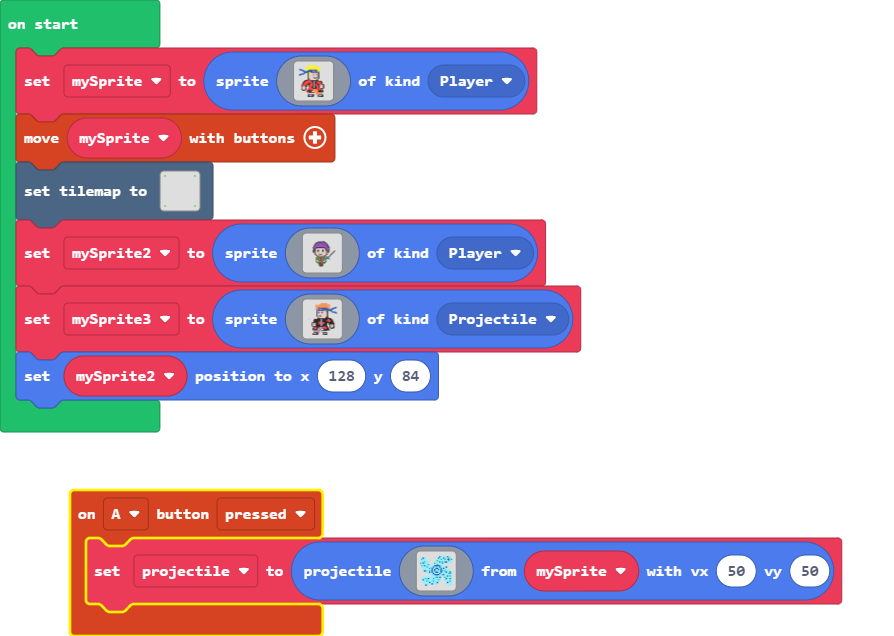
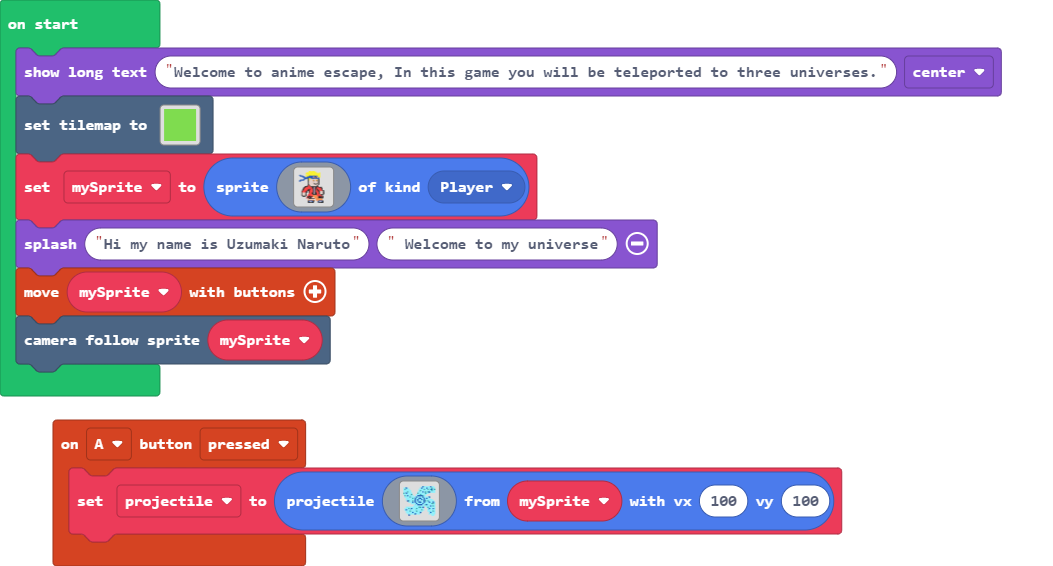
Update pxt.json, main.blocks, main.ts, images.g.jres, images.g.ts, tilemap.g.jres, tilemap.g.ts

diff --git a/tilemap.g.ts b/tilemap.g.ts
@@ -24,6 +24,44 @@ namespace myTiles {
 . . . . . . . . . . . . . . . . 
 . . . . . . . . . . . . . . . . 
 `, [myTiles.transparency16,sprites.castle.tileGrass2], TileScale.Sixteen);
+            case "level2":
+            case "level2":return tiles.createTilemap(hex`1000100001010101010101010101010101010101010101010101010101010101010101010101010101010101010101010101010101010101010101010101010101010101010101010101010101010101010101010101010101010101010101010101010101010101010101010101010101010101010101010101010101010101010101010101010101010101010101010101010101010101010101010101010101010101010101010101010101010101010101010101010101010101010101010101010101010101010101010101010101010101010101010101010101010101010101010101010101010101010101010101010101010101010101010101010101010101`, img`
+. . . . . . . . . . . . . . . . 
+. . . . . . . . . . . . . . . . 
+. . . . . . . . . . . . . . . . 
+. . . . . . . . . . . . . . . . 
+. . . . . . . . . . . . . . . . 
+. . . . . . . . . . . . . . . . 
+. . . . . . . . . . . . . . . . 
+. . . . . . . . . . . . . . . . 
+. . . . . . . . . . . . . . . . 
+. . . . . . . . . . . . . . . . 
+. . . . . . . . . . . . . . . . 
+. . . . . . . . . . . . . . . . 
+. . . . . . . . . . . . . . . . 
+. . . . . . . . . . . . . . . . 
+. . . . . . . . . . . . . . . . 
+. . . . . . . . . . . . . . . . 
+`, [myTiles.transparency16,sprites.castle.tileGrass1], TileScale.Sixteen);
+            case "level3":
+            case "level3":return tiles.createTilemap(hex`1000100000000000000000000000000000000000000000000000000000000000000000000000000000000000000000000000000000000000000000000000000000000000000000000000000000000000000000000000000000000000000000000000000000000000000000000000000000000000000000000000000000000000000000000000000000000000000000000000000000000000000000000000000000000000000000000000000000000000000000000000000000000000000000000000000000000000000000000000000000000000000000000000000000000000000000000000000000000000000000000000000000000000000000000000000000000000`, img`
+. . . . . . . . . . . . . . . . 
+. . . . . . . . . . . . . . . . 
+. . . . . . . . . . . . . . . . 
+. . . . . . . . . . . . . . . . 
+. . . . . . . . . . . . . . . . 
+. . . . . . . . . . . . . . . . 
+. . . . . . . . . . . . . . . . 
+. . . . . . . . . . . . . . . . 
+. . . . . . . . . . . . . . . . 
+. . . . . . . . . . . . . . . . 
+. . . . . . . . . . . . . . . . 
+. . . . . . . . . . . . . . . . 
+. . . . . . . . . . . . . . . . 
+. . . . . . . . . . . . . . . . 
+. . . . . . . . . . . . . . . . 
+. . . . . . . . . . . . . . . . 
+`, [myTiles.transparency16], TileScale.Sixteen);
         }
         return null;
     })

diff --git a/images.g.ts b/images.g.ts
@@ -170,6 +170,34 @@ namespace myImages {
 ........fddddff......fdddf..............
 ........ffffff.......fffff..............
 `;
+            case "_P*{r%-CaF(tZ7L9J06{":
+            case "rasen shuriken":return img`
+.........................
+..............9899999899.
+9989.........989998999699
+96999.......9999699696896
+999999......9699999999699
+999699.....99998969689999
+6989999....699999699.....
+9999996...99969999.......
+.6989999..9888869........
+.99996999989999899998....
+..9999969899889989899....
+..999999989899898999999..
+...869969898999986969999.
+....999898998899899989989
+......9999899998999999669
+.........9988889968999999
+........99999999.99998969
+..99999999996698..9699999
+.999698999699999...989989
+.989999999999969...999999
+..9996999969999....999969
+..999998999998......98999
+...9999998999.......99999
+....8.................99.
+.........................
+`;
         }
         return null;
     })

diff --git a/main.ts b/main.ts
@@ -25,13 +25,13 @@ controller.A.onEvent(ControllerButtonEvent.Pressed, function () {
         ...9999998999.......99999
         ....8.................99.
         .........................
-        `, mySprite, 50, 50)
+        `, mySprite, 100, 100)
 })
 let projectile: Sprite = null
 let mySprite: Sprite = null
+game.showLongText("Welcome to anime escape, In this game you will be teleported to three universes.", DialogLayout.Center)
+tiles.setTilemap(tilemap`level2`)
 mySprite = sprites.create(assets.image`Naruto`, SpriteKind.Player)
+game.splash("Hi my name is Uzumaki Naruto", " Welcome to my universe")
 controller.moveSprite(mySprite)
-tiles.setTilemap(tilemap`level1`)
-let mySprite2 = sprites.create(assets.image`Tanjiro`, SpriteKind.Player)
-let mySprite3 = sprites.create(assets.image`Pain`, SpriteKind.Projectile)
-mySprite2.setPosition(128, 84)
+scene.cameraFollowSprite(mySprite)
